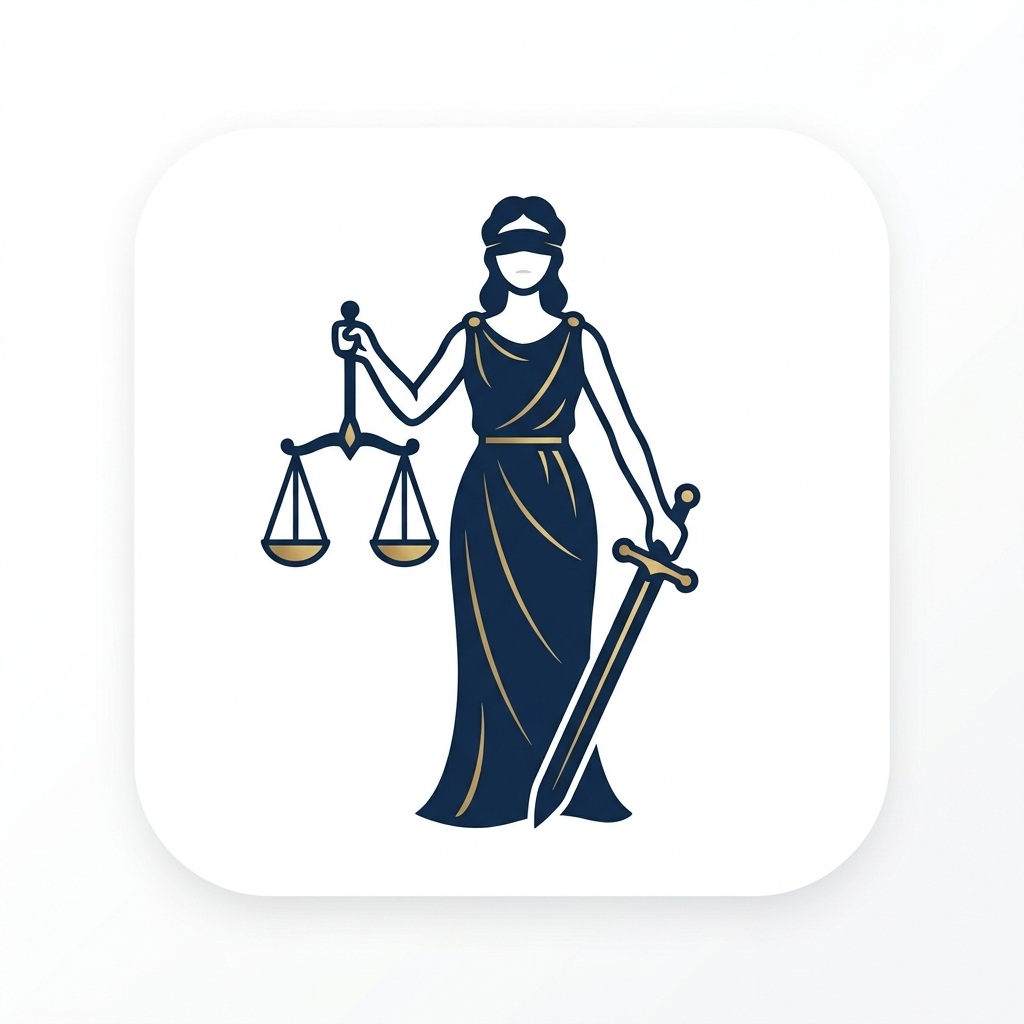
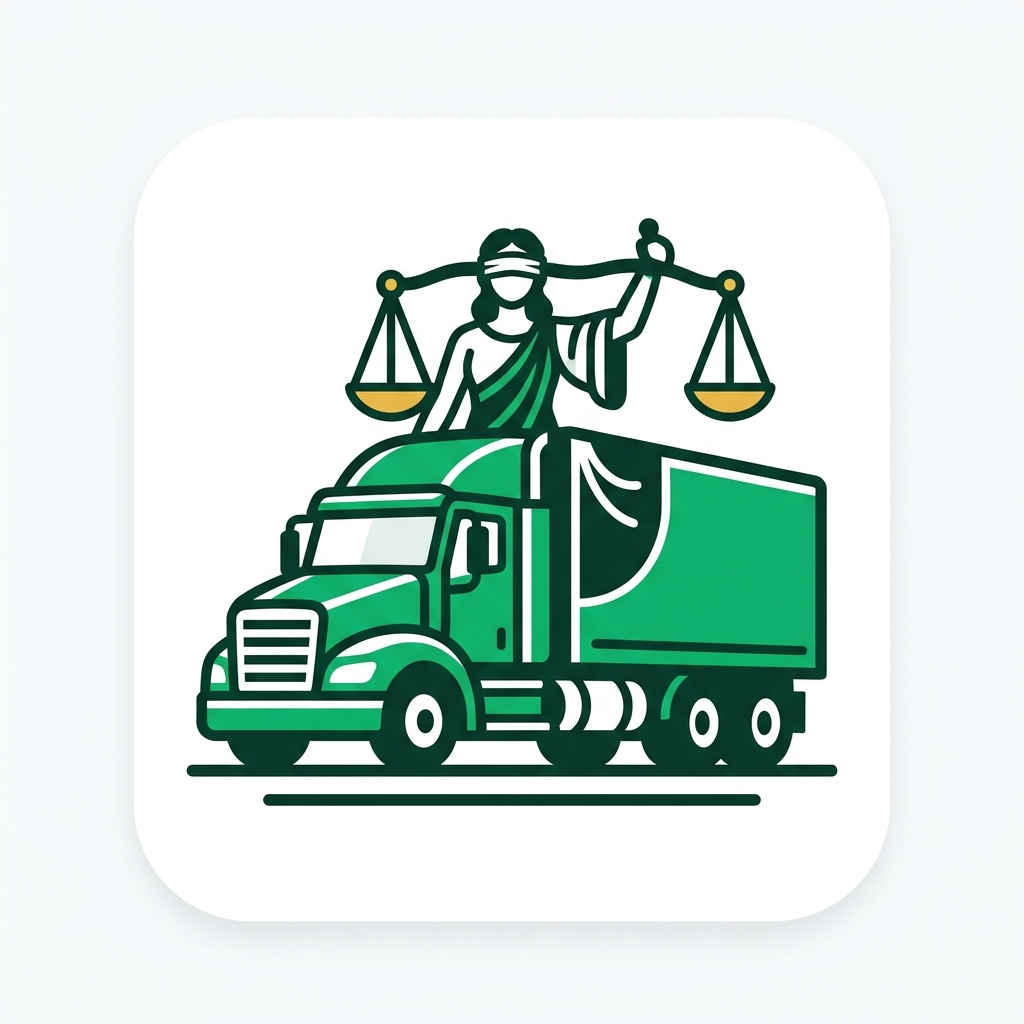
Finalized portable version with embedded resources and auto-db logic

Changed region(s): [[0.1875, 0.1875, 0.8125, 0.8125], [0.25, 0.8438, 0.8125, 0.9062], [0.8125, 0.8125, 0.8438, 0.8438]]

diff --git a/Services/LanguageService.cs b/Services/LanguageService.cs
@@ -34,27 +34,35 @@ namespace FreeKantar.Services
 
         private void LoadTranslations()
         {
-            string localesPath = Path.Combine(AppDomain.CurrentDomain.BaseDirectory, "Locales");
+            var assembly = typeof(LanguageService).Assembly;
+            string resourcePrefix = "FreeKantar.Locales.";
             
-            if (Directory.Exists(localesPath))
+            foreach (string resourceName in assembly.GetManifestResourceNames())
             {
-                foreach (var file in Directory.GetFiles(localesPath, "*.json"))
+                if (resourceName.StartsWith(resourcePrefix) && resourceName.EndsWith(".json"))
                 {
                     try
                     {
-                        string langCode = Path.GetFileNameWithoutExtension(file).ToUpper();
-                        string jsonContent = File.ReadAllText(file);
-                        var data = JsonSerializer.Deserialize<Dictionary<string, string>>(jsonContent);
-                        if (data != null)
+                        using (Stream? stream = assembly.GetManifestResourceStream(resourceName))
                         {
-                            _allTranslations[langCode] = data;
+                            if (stream == null) continue;
+                            using (StreamReader reader = new StreamReader(stream))
+                            {
+                                string langCode = resourceName.Replace(resourcePrefix, "").Replace(".json", "").ToUpper();
+                                string jsonContent = reader.ReadToEnd();
+                                var data = JsonSerializer.Deserialize<Dictionary<string, string>>(jsonContent);
+                                if (data != null)
+                                {
+                                    _allTranslations[langCode] = data;
+                                }
+                            }
                         }
                     }
-                    catch { /* Skip corrupted files */ }
+                    catch { /* Skip corrupted resources */ }
                 }
-                
-                if (_allTranslations.Count > 0) return;
             }
+
+            if (_allTranslations.Count > 0) return;
 
             // Bootstrap defaults if Locales folder is missing or empty
             _allTranslations["TR"] = new Dictionary<string, string> {

diff --git a/UI/MainForm.cs b/UI/MainForm.cs
@@ -123,9 +123,13 @@ namespace FreeKantar.UI
             this.Font = new Font("Segoe UI", 10);
 
             try {
-                if (File.Exists("app_icon.png")) {
-                    using (var bitmap = new Bitmap("app_icon.png")) {
-                        this.Icon = Icon.FromHandle(bitmap.GetHicon());
+                var assembly = System.Reflection.Assembly.GetExecutingAssembly();
+                using (Stream? stream = assembly.GetManifestResourceStream("FreeKantar.app_icon.png"))
+                {
+                    if (stream != null) {
+                        using (var bitmap = new Bitmap(stream)) {
+                            this.Icon = Icon.FromHandle(bitmap.GetHicon());
+                        }
                     }
                 }
             } catch { }

diff --git a/Data/DbService.cs b/Data/DbService.cs
@@ -17,7 +17,14 @@ namespace FreeKantar.Data
             var dbPath = Path.Combine(AppDomain.CurrentDomain.BaseDirectory, "kantar.db");
             _connectionString = $"Data Source={dbPath};Password={DbPassword};";
             
-            TryMigratePassword(dbPath);
+            // Check if DB exists, if not, it will be created during InitializeDatabase.Open()
+            bool dbExists = File.Exists(dbPath);
+            
+            if (dbExists)
+            {
+                TryMigratePassword(dbPath);
+            }
+            
             InitializeDatabase();
         }
 